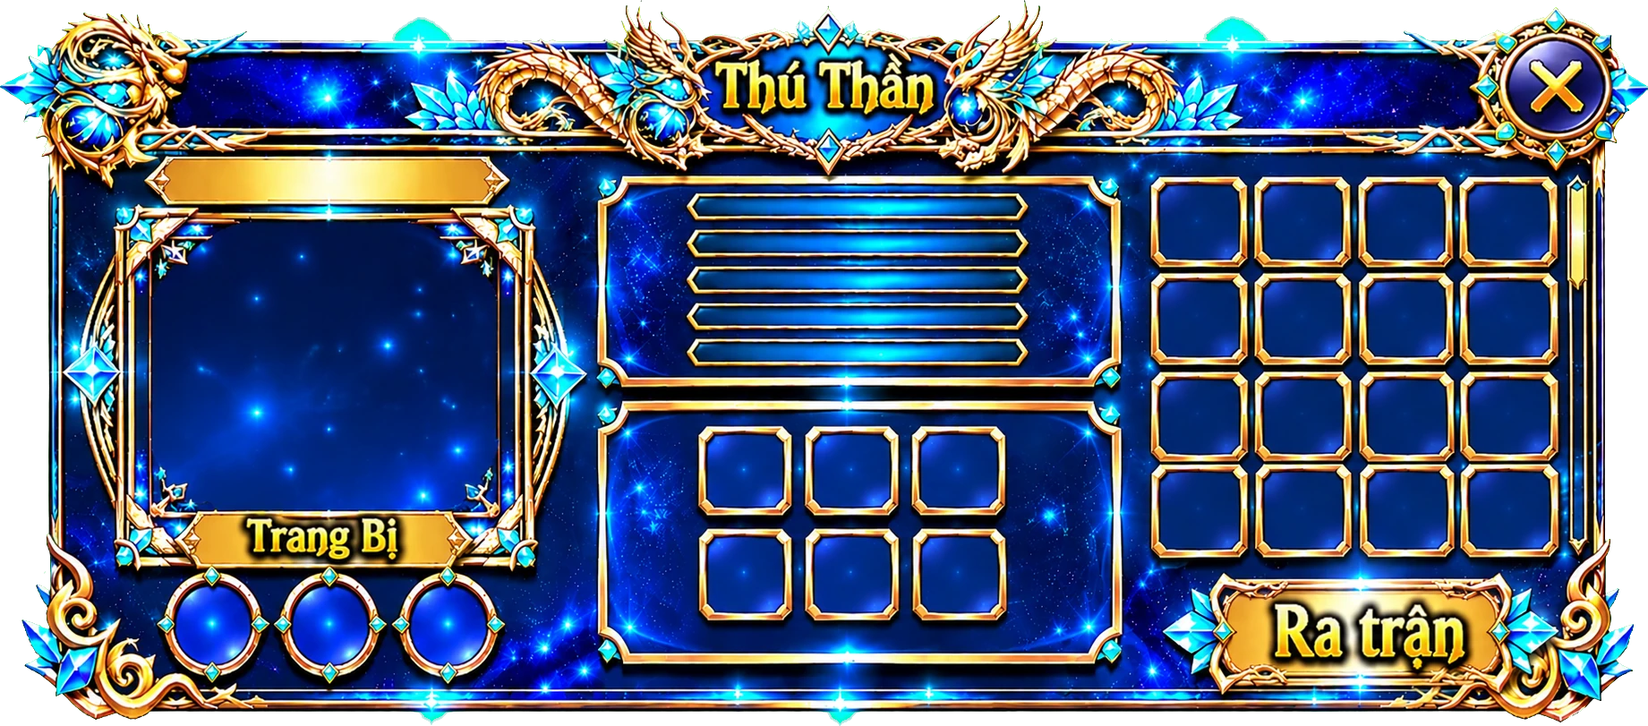
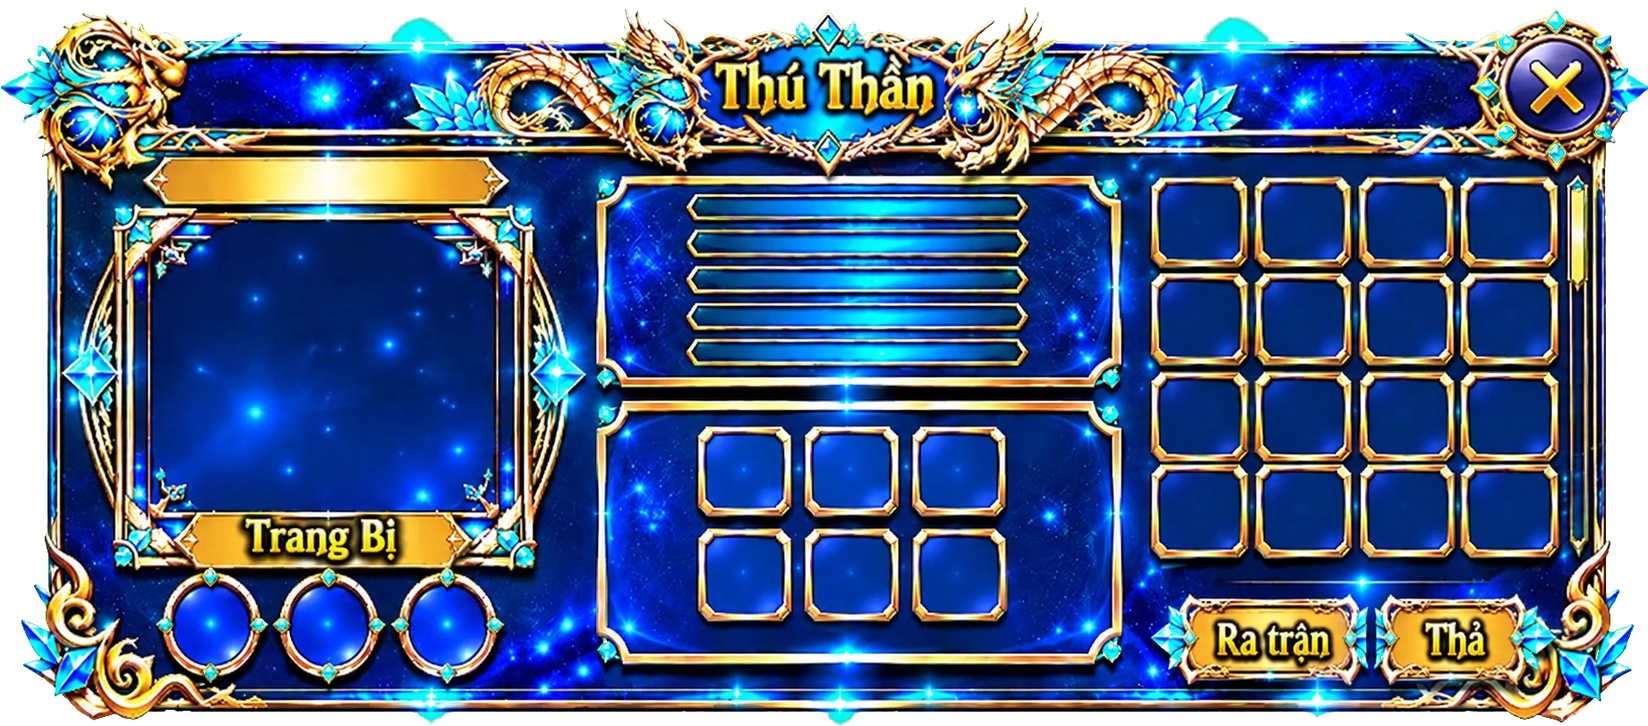
Thú Thần: khung mới có nút Thả + hiệu ứng nhấn lún/nảy cho mọi nút
- Thay khung-thu.webp bằng khung mới (thêm nút Thả, Ra trận nhỏ lại); toạ độ ô giữ nguyên
- Nút Thả: bỏ hẳn thú khỏi kho (có hỏi xác nhận, trả sách kỹ năng về Balo).
  Mờ khi chưa chọn thú hoặc thú chọn đã ra trận; chỉ sáng khi chọn thú chưa ra trận
- Thú 'canh-' (đồng bộ từ sảnh) bị thả được nhớ ở ttg_moi_thu_tha_v1 để không tự thêm lại
- Ảnh 'Đang ra trận' vẽ lại cho vừa nút Ra trận mới
- 63-nhan-nut.js: nhấn thì co, nhả thì nảy lên rồi lắng (cho mọi nút, kể cả nút vẽ sẵn trong ảnh khung)
- Bỏ :active{transform} cũ ở .nv và .btx để không bị co đôi

Claude-Session: https://claude.ai/code/session_01WtY8uwoUFqPTLnQR7GBr6f

diff --git a/game-moi/54-thu-than.js b/game-moi/54-thu-than.js
@@ -1,8 +1,10 @@
 /* 54-thu-than.js - Nút "Thú Thần" + panel Thú Thần (chứa và trang bị thú đã bắt).
    Cần 52-nut-vuong.js (TTGNV) nạp trước; nạp SAU 53-balo.js (để đóng Balo khi mở panel này) và sau 51-thu-moi.js (lấy ảnh thú).
-   Ảnh khung: game-moi/khung-thu.webp (1841x811, khung xanh-vàng mới: chữ THÚ THẦN, nút X, chữ TRANG BỊ và RA TRẬN đã VẼ SẴN trong ảnh). Hiển thị tối đa đúng cỡ gốc (1 pixel ảnh = 1 pixel máy) để không bị mờ; đóng bằng nút X / bấm ngoài / Esc.
+   Ảnh khung: game-moi/khung-thu.webp (1841x811, khung xanh-vàng: chữ THÚ THẦN, nút X, chữ TRANG BỊ, RA TRẬN và THẢ đã VẼ SẴN trong ảnh; khung mới 21/11/2026 thêm nút THẢ). Hiển thị tối đa đúng cỡ gốc (1 pixel ảnh = 1 pixel máy) để không bị mờ; đóng bằng nút X / bấm ngoài / Esc.
    MỌI TỌA ĐỘ bên dưới tính theo PIXEL ẢNH ĐÃ CẮT 1841x811 (BW x BH). Cỡ chữ/độ dày trong CSS ({n}) vẫn tính theo thang cũ 2200 (UB) nên không phải chỉnh lại; --u = clientWidth/UB.
    TIẾN ĐỘ: BƯỚC 1 (nút + icon) xong. BƯỚC 2 (khung + đóng) xong. BƯỚC 3 (bố cục + chọn thú + ra trận) xong.
+   NÚT THẢ: bỏ hẳn thú đang chọn khỏi kho (hỏi xác nhận, sách kỹ năng đang gắn trả về Balo). Nút MỜ khi chưa chọn thú hoặc thú đang chọn đã RA TRẬN; chỉ SÁNG khi chọn thú CHƯA ra trận. Thú 'canh-' (đồng bộ từ sảnh) bị thả thì ghi nhớ ở khóa ttg_moi_thu_tha_v1 để dongBo() không tự thêm lại.
+   HIỆU ỨNG NHẤN: do 63-nhan-nut.js lo cho mọi nút (nút vẽ sẵn trong ảnh khung tự được cắt mảnh ảnh để co/nảy). Đừng thêm :active{transform} vào nút nữa kẻo co đôi.
    CHƯA LÀM: bậc thú SS..D (chỉ chừa trường bac), buff/debuff/kỹ năng có sẵn (3 ô tròn), gắn/gỡ sách kỹ năng (6 ô "+"), bảng nổi.
    QUY TẮC: mở Thú Thần thì đóng Balo, mở Balo thì đóng Thú Thần (53-balo.js gọi TTGTHU.close()).
    DỮ LIỆU: danh sách thú {uid, id (loài, khớp THU_MOI.byId), ten, bac (tùy chọn: SS/S/A/B/C/D), tien (tiến hóa 1-3 = ảnh -b1/-b2/-b3, mặc định 1), chiso:{hp,tc,pt,td,mm}}
@@ -14,8 +16,8 @@
 (function(){
 'use strict';
 if(!window.TTGNV)return;
-var BW=1841,BH=811,UB=2200,IMG='game-moi/khung-thu.webp?v=6',OV_GOV='game-moi/nut-dang-ra-tran.webp?v=1';   /* ảnh khung gốc 1841x811; UB = thang đơn vị cũ cho cỡ chữ/độ dày ({n}) */
-var KEY='ttg_moi_thu_v1',KRT='ttg_moi_thu_ratran_v1';
+var BW=1841,BH=811,UB=2200,IMG='game-moi/khung-thu.webp?v=7',OV_GOV='game-moi/nut-dang-ra-tran.webp?v=2';   /* ảnh khung gốc 1841x811; UB = thang đơn vị cũ cho cỡ chữ/độ dày ({n}) */
+var KEY='ttg_moi_thu_v1',KRT='ttg_moi_thu_ratran_v1',KTHA='ttg_moi_thu_tha_v1';
 var demo=/[?&]thu=demo/.test(location.search);
 var isOpen=false,openAt=0,root=null,fr=null,E={};
 
@@ -32,7 +34,9 @@ var ANH_THU=360;    /* cỡ ảnh thú lớn bên trái (px ảnh khung). Ảnh 
 var BAR_Y=216,BAR_DY=40.8,BAR_X=772,BAR_W=374,BAR_H=27;             /* 5 thanh chỉ số */
 var GR_X=[1288,1405,1520,1634],GR_Y=[201,310,420,523],GR_W=105,GR_H=96;  /* lưới thú 4 cột x 4 hàng */
 var SK_X=[782,902,1021],SK_Y=[477,592],SK_S=100;                    /* 6 ô kỹ năng (3 cột x 2 hàng) */
-var RAIL={x:1754,y:199,w:21,h:422};                                  /* rãnh cuộn bên phải lưới */
+var RAIL={x:1754,y:199,w:21,h:422};
+var GO={x:1319,y:668,w:206,h:92},THA={x:1542,y:668,w:162,h:92};      /* 2 nút dưới-phải: RA TRẬN và THẢ (vùng tấm vàng vẽ sẵn). Lớp mờ/sáng nới thêm DIM_PAD px mỗi bên */
+var GO_OV={x:1286,y:664,w:250,h:100},DIM_PAD=5;                   /* ảnh 'Đang ra trận' phủ lên RA TRẬN */                                  /* rãnh cuộn bên phải lưới */
 /* ----- KỸ NĂNG / SÁCH (5a) ----- */
 var NSK=6;                  /* số ô gắn kỹ năng */
 var NOI_IMG='';             /* ẢNH KHUNG BẢNG NỔI (nền xanh đã tách, ô giữa trong suốt): khi có file thì điền vd 'game-moi/khung-noi.webp'. Để trống = dùng khung vẽ bằng CSS tạm. */
@@ -51,7 +55,8 @@ if(window.TTGBALO&&TTGBALO.reg)TTGBALO.reg(SACH);   /* đăng ký vào Balo (sá
 if(demo&&window.TTGBALO)Object.keys(SACH).forEach(function(k,i){TTGBALO.add(k,i%3+1);});   /* ?thu=demo: tặng sách mẫu (Balo demo, không lưu) */
 
 /* ===== DỮ LIỆU ===== */
-var thus=[],rt=null,sel=null,page=0,row0=0;
+var thus=[],rt=null,sel=null,page=0,row0=0,thaList=[];
+try{var tl=JSON.parse(localStorage.getItem(KTHA)||'[]');if(Array.isArray(tl))thaList=tl;}catch(e){}
 function uid(){return 't'+Date.now().toString(36)+Math.random().toString(36).slice(2,7);}
 function demoChiso(k){var c={hp:300+k*37,tc:40+k*7,pt:30+k*5,td:20+(k*11)%60,mm:5+(k*3)%30},n=0;
   PAGES.slice(1).forEach(function(p){p.ds.forEach(function(d){c[d[0]]=((k*7+(n++)*13)%240)/10;});});return c;}   /* chỉ số phụ mẫu 0~24% */
@@ -85,7 +90,6 @@ var css=[
 '.tt-ph{display:flex;align-items:center;justify-content:center;overflow:hidden}',
 '.tt-ph img{width:{'+ANH_THU+'};height:{'+ANH_THU+'};object-fit:contain;filter:drop-shadow(0 {6} {10} rgba(0,0,0,.55));-webkit-user-drag:none;user-select:none}',
 '.tt-eq{padding:0;border:0;border-radius:{26};background:transparent;cursor:pointer}',   /* chữ TRANG BỊ đã vẽ sẵn trong khung: nút chỉ là vùng bấm trong suốt */
-'.tt-eq:active{background:rgba(255,224,102,.18)}',
 '.tt-emp{text-align:center;font-size:{26};line-height:1.45;color:#7c83b8;padding:0 {20}}',
 /* GIỮA TRÊN: chỉ số */
 '.tt-cap{display:flex;align-items:center;justify-content:center;font-family:var(--fh);font-weight:800;font-size:{21};letter-spacing:{1};color:#bfeee8;text-shadow:0 {2} 0 #000}',
@@ -95,7 +99,6 @@ var css=[
 '.tt-mid{display:flex;align-items:center;justify-content:center;text-align:center;font-size:{24};color:#7c83b8}',
 '.tt-pg{display:flex;align-items:center;justify-content:center;padding:0;border-radius:{10};border:{3} solid #c9992f;background:#1d1d5a;color:#ffe9a0;font-size:{36};line-height:1;cursor:pointer}',
 '.tt-pg:disabled{opacity:.3;cursor:default}',
-'.tt-pg:active:not(:disabled){transform:scale(.92)}',
 /* GIỮA DƯỚI: 6 ô kỹ năng */
 '.tt-sk{display:flex;align-items:center;justify-content:center;padding:0;border:0;border-radius:{10};background:transparent;color:#ffd86b;font-size:{78};font-weight:300;line-height:1;text-shadow:0 0 {12} rgba(255,200,80,.6);cursor:pointer}',
 '.tt-sk{position:absolute}',
@@ -115,9 +118,15 @@ var css=[
 '.tt-th{position:absolute;left:{2};right:{2};border-radius:{7};background:linear-gradient(90deg,#c9992f,#ffe58a,#c9992f);box-shadow:0 0 {6} rgba(255,224,102,.5)}',
 /* NÚT RA TRẬN */
 '.tt-go{padding:0;border:0;border-radius:{18};background:transparent;cursor:pointer}',   /* chữ RA TRẬN đã vẽ sẵn trong khung: nút chỉ là vùng bấm trong suốt */
-'.tt-go:active:not(:disabled){background:rgba(255,255,255,.18)}',
-'.tt-go:disabled{cursor:default}',
-'.tt-go.off{background:rgba(3,4,18,.5)}',   /* chưa chọn thú: làm tối tấm RA TRẬN */
+'.tt-tha{padding:0;border:0;border-radius:{18};background:transparent;cursor:pointer}',   /* chữ THẢ vẽ sẵn trong khung: nút chỉ là vùng bấm trong suốt */
+'.tt-go.off,.tt-tha.off{cursor:default}',
+/* lớp MỜ / SÁNG: cắt đúng mảnh ảnh khung dưới nút rồi chỉnh độ sáng, viền mờ dần để không lộ hình chữ nhật */
+'.tt-dim,.tt-lit{pointer-events:none;background-repeat:no-repeat;opacity:0;transition:opacity .22s ease;-webkit-mask-image:linear-gradient(90deg,transparent,#000 7%,#000 93%,transparent),linear-gradient(180deg,transparent,#000 9%,#000 91%,transparent);-webkit-mask-composite:source-in;mask-image:linear-gradient(90deg,transparent,#000 7%,#000 93%,transparent),linear-gradient(180deg,transparent,#000 9%,#000 91%,transparent);mask-composite:intersect}',
+'.tt-dim{filter:brightness(.4) saturate(.35)}',
+'.tt-dim.on{opacity:.93}',
+'.tt-lit{filter:brightness(1.7) saturate(1.25)}',
+'.tt-lit.on{opacity:.4;animation:ttLit 1.7s ease-in-out infinite}',
+'@keyframes ttLit{0%,100%{opacity:.08}50%{opacity:.42}}',
 '.tt-gov{display:none;pointer-events:none;-webkit-user-drag:none;user-select:none}',   /* ảnh nút ĐANG RA TRẬN phủ lên chữ RA TRẬN vẽ sẵn */
 /* ô kỹ năng đã gắn + bảng danh sách sách + bảng nổi */
 '.tt-sk .ic{display:flex;align-items:center;justify-content:center;font-size:{62};font-weight:400;line-height:1;text-shadow:none}',
@@ -146,7 +155,7 @@ var css=[
 '.tt-pb button{min-width:{150};height:{58};padding:0 {18};border-radius:{10};border:{2} solid #c9992f;background:#1d1d5a;color:#ffe9a0;font-family:var(--fh);font-weight:800;font-size:{28};cursor:pointer}',
 '.tt-pb button.p{background:linear-gradient(180deg,#ffe58a,#c58a1e);color:#3b2406}',
 '.tt-pb button.d{background:#6b1f2e;border-color:#e0707e;color:#ffd9dd}',
-'.tt-pb button:active{transform:scale(.95)}'
+'.tt-pb button.p:active{filter:brightness(1.08)}'
 ].join('\n').replace(/\{(\d+(?:\.\d+)?)\}/g,'calc(var(--u)*$1)');
 var st=document.createElement('style');st.textContent=css;document.head.appendChild(st);
 
@@ -162,6 +171,15 @@ function unit(){if(!fr)return;var d=window.devicePixelRatio||1;fr.style.maxWidth
 var tt=0,lastDrag=0;
 function toast(t){E.ts.textContent=t;E.ts.style.display='flex';clearTimeout(tt);tt=setTimeout(function(){E.ts.style.display='none';},1500);}
 
+/* cắt mảnh ảnh khung theo box {x,y,w,h} (px ảnh), nới DIM_PAD mỗi bên, làm lớp phủ cùng chỗ (dùng cho mờ/sáng nút vẽ sẵn) */
+function bake(cls,b){
+  var x=Math.max(0,b.x-DIM_PAD),y=Math.max(0,b.y-DIM_PAD),w=Math.min(BW-x,b.w+DIM_PAD*2),h=Math.min(BH-y,b.h+DIM_PAD*2);
+  var c=mk('div',cls,x,y,w,h),s=c.style;
+  s.backgroundImage='url('+IMG+')';
+  s.backgroundSize=(BW/w*100)+'% '+(BH/h*100)+'%';
+  s.backgroundPosition=(BW>w?x/(BW-w)*100:0)+'% '+(BH>h?y/(BH-h)*100:0)+'%';
+  return c;
+}
 function build(){
   var i,j;
   root=document.createElement('div');root.className='tt';
@@ -204,9 +222,18 @@ function build(){
   E.th=document.createElement('div');E.th.className='tt-th';E.rail.appendChild(E.th);
   gridScroll();
 
-  /* --- NÚT RA TRẬN: tấm vàng dưới-phải đã vẽ sẵn chữ "Ra trận" (x1372-1672,y662-752). E.gov = tấm phủ "Đang ra trận" khi thú đang ra trận --- */
-  E.gov=mk('img','tt-gov',1346,634,354,142);E.gov.src=OV_GOV;E.gov.alt='';E.gov.draggable=false;   /* ảnh nút ĐANG RA TRẬN (cắt từ khung mới) đè lên nút RA TRẬN, giống ảnh MỞ KHÓA ở Balo */
-  E.go=mk('button','tt-go',1372,662,300,90);E.go.setAttribute('aria-label','Ra trận');E.go.type='button';E.go.addEventListener('click',function(){if(sel&&sel!==rt){rt=sel;save();render();}});
+  /* --- 2 NÚT DƯỚI-PHẢI: RA TRẬN và THẢ (tấm vàng đã vẽ sẵn chữ trong khung). Mỗi nút gồm: lớp MỜ (.tt-dim) + lớp SÁNG (.tt-lit, chỉ THẢ) + ảnh 'Đang ra trận' (chỉ RA TRẬN) + nút bấm trong suốt.
+     Lớp dim/lit dựng TRƯỚC nút bấm để nút luôn nằm trên cùng. --- */
+  E.goDim=bake('tt-dim',GO);E.thaDim=bake('tt-dim',THA);E.thaLit=bake('tt-lit',THA);
+  E.gov=mk('img','tt-gov',GO_OV.x,GO_OV.y,GO_OV.w,GO_OV.h);E.gov.src=OV_GOV;E.gov.alt='';E.gov.draggable=false;   /* ảnh nút ĐANG RA TRẬN đè lên nút RA TRẬN, giống ảnh MỞ KHÓA ở Balo */
+  E.go=mk('button','tt-go',GO.x,GO.y,GO.w,GO.h);E.go.setAttribute('aria-label','Ra trận');E.go.type='button';
+  E.go.addEventListener('click',function(){if(sel&&sel!==rt){rt=sel;save();render();}});
+  E.tha=mk('button','tt-tha',THA.x,THA.y,THA.w,THA.h);E.tha.setAttribute('aria-label','Thả');E.tha.type='button';
+  E.tha.addEventListener('click',function(){
+    var t=byUid(sel);if(!t)return;
+    if(t.uid===rt){toast('Thú đang ra trận, không thể thả');return;}
+    moTha(t);
+  });
 
   buildPop();
   document.body.appendChild(root);
@@ -279,9 +306,14 @@ function renderLeft(){
   else{E.nm.textContent='Chưa Có Thú';E.ph.innerHTML='<div class="tt-emp">Chưa có thú nào<br>Bắt thú để cất vào đây</div>';}
 }
 function renderGo(){
-  var on=!!sel&&sel===rt;
+  var on=!!sel&&sel===rt,t=!!byUid(sel);
   E.gov.style.display=on?'block':'none';   /* chữ RA TRẬN vẽ sẵn không đổi được: đang ra trận thì phủ tấm "Đang ra trận" lên */
-  E.go.disabled=!sel||on;E.go.classList.toggle('off',!sel);
+  E.go.disabled=!sel||on;
+  E.goDim.classList.toggle('on',!sel);   /* chưa chọn thú: làm mờ tấm RA TRẬN */
+  /* THẢ: chỉ SÁNG khi chọn thú CHƯA ra trận. Mờ khi không chọn gì HOẶC thú chọn đã ra trận. (aria-disabled thay vì disabled để bấm vào còn báo lý do) */
+  var can=t&&sel!==rt;
+  E.tha.setAttribute('aria-disabled',can?'false':'true');E.tha.classList.toggle('off',!can);
+  E.thaDim.classList.toggle('on',!can);E.thaLit.classList.toggle('on',!!can);
 }
 function render(){if(!root)return;renderLeft();renderStats();renderGrid();renderGo();renderSkills();}
 
@@ -351,6 +383,27 @@ function go(k){
   if(window.TTGBALO)TTGBALO.add(id,1);kn[k]=null;save();hidePop();renderSkills();toast('Đã gỡ, sách về Balo');
 }
 
+/* ===== THẢ THÚ: bỏ hẳn khỏi kho. Hỏi xác nhận (dùng bảng nổi E.in). Thú đang ra trận KHÔNG thả được. ===== */
+function moTha(t){
+  var a=anhThu(t);
+  E.in.innerHTML='<div class="tt-ii"><span class="i">'+(a?'<img src="'+esc(a)+'" alt="">':'?')+'</span><div class="n">Thả '+esc(tenThu(t))+'?</div><div class="d">Thú sẽ rời khỏi kho và không lấy lại được. Sách kỹ năng đang gắn (nếu có) được trả về Balo.</div></div>'
+   +'<div class="tt-pb"><button type="button" class="d">Thả</button><button type="button">Hủy</button></div>';
+  var bs=E.in.querySelectorAll('button');
+  bs[0].addEventListener('click',function(){tha(t.uid);});
+  bs[1].addEventListener('click',function(){hidePop();});
+  E.ls.style.display='none';E.ov.style.display='block';E.in.style.display='flex';
+}
+function tha(u){
+  var t=byUid(u);if(!t||t.uid===rt)return;
+  var idx=thus.indexOf(t),kn=Array.isArray(t.kn)?t.kn:[],ten=tenThu(t);
+  if(window.TTGBALO)kn.forEach(function(id){if(id)TTGBALO.add(id,1);});   /* trả sách kỹ năng về Balo */
+  thus.splice(idx,1);
+  if(u.indexOf('canh-')===0&&thaList.indexOf(u)<0){thaList.push(u);if(!demo){try{localStorage.setItem(KTHA,JSON.stringify(thaList));}catch(e){}}}   /* thú đồng bộ từ sảnh: nhớ đã thả để không tự thêm lại */
+  save();
+  sel=thus[idx]?thus[idx].uid:(thus[idx-1]?thus[idx-1].uid:null);
+  hidePop();render();toast('Đã thả '+ten);
+}
+
 /* ĐỒNG BỘ THÚ Ở SẢNH: game-moi/index.html lưu thú đang đứng ở sảnh vào khóa ttg_moi_v1 {thu:loài, bm:bậc 1-3}.
    Chưa có cơ chế bắt thú thật, nên mỗi loài thú từng dùng ở sảnh được coi là ĐÃ CÓ và tự vào danh sách (mỗi loài 1 con, uid 'canh-<loài>').
    Con 'canh-' luôn cập nhật tiến hóa (tien) theo bậc bm hiện tại. Sau này có bắt thú thì bỏ hàm này (hoặc chỉ giữ để nhập thú cũ). */
@@ -360,6 +413,7 @@ function dongBo(){
     var sv=JSON.parse(localStorage.getItem('ttg_moi_v1')||'{}'),id=sv&&sv.thu;
     if(!id||!THU_MOI.byId[id])return;
     var tien=Math.max(1,Math.min(3,(sv.bm|0)||1)),u='canh-'+id,t=byUid(u),i,co=false;
+    if(thaList.indexOf(u)>=0)return;   /* đã thả con này rồi */
     for(i=0;i<thus.length;i++)if(thus[i].id===id){co=true;break;}
     if(t){if(t.tien!==tien){t.tien=tien;save();}}
     else if(!co){thus.push({uid:u,id:id,tien:tien,chiso:{}});save();}
@@ -402,5 +456,5 @@ function expInfo(){var t=rt&&byUid(rt);if(!t||!window.TTGCS)return null;var lv=M
 function addExp(n){var t=rt&&byUid(rt);n=Math.max(0,Math.floor(n)||0);if(!t||!window.TTGCS)return null;var lv0=Math.max(1,Math.floor(t.lv||1)),lv=lv0,e=Math.max(0,Math.floor(t.exp||0))+n;
   while(lv<capMax()&&e>=TTGCS.expCan(lv)){e-=TTGCS.expCan(lv);lv++;}
   if(lv>=capMax())e=0;t.lv=lv;t.exp=e;save();return {gain:n,lv0:lv0,lv1:lv,exp:e,need:lv>=capMax()?0:TTGCS.expCan(lv)};}
-window.TTGTHU={open:open,close:close,isOpen:function(){return isOpen;},add:add,list:list,getRaTran:getRaTran,anh:anhThu,expInfo:expInfo,addExp:addExp};   /* anh(thu) = đường dẫn ảnh thú (dùng cho khung Trang Bị) */
+window.TTGTHU={tha:tha,open:open,close:close,isOpen:function(){return isOpen;},add:add,list:list,getRaTran:getRaTran,anh:anhThu,expInfo:expInfo,addExp:addExp};   /* anh(thu) = đường dẫn ảnh thú (dùng cho khung Trang Bị) */
 })();

diff --git a/game-moi/63-nhan-nut.js b/game-moi/63-nhan-nut.js
@@ -1,0 +1,112 @@
+/* 63-nhan-nut.js - HIỆU ỨNG NHẤN cho MỌI nút trong game-moi (không còn cứng đơ).
+   Nhấn xuống: nút co lại nhanh. Nhả ra: nảy lên quá cỡ một chút rồi lắng về 1 (như lò xo).
+   Dùng thuộc tính CSS `scale` (độc lập với `transform`) + Web Animations API => KHÔNG đè lên transform/transition của từng nút.
+   Chỉ nạp 1 lần, bắt sự kiện ở cấp document nên nút tạo sau (panel mở sau, danh sách vẽ lại) vẫn có hiệu ứng.
+
+   NÚT VẼ SẴN TRONG ẢNH KHUNG (Ra trận, Thả, Trang Bị, X, Khóa/Vứt ở Balo...): nút thật chỉ là vùng bấm trong suốt nên co nó chẳng thấy gì.
+   Với nút trong suốt như vậy, lúc nhấn script tự cắt đúng mảnh ảnh khung nằm dưới nút (ảnh nền của khung cha) thành 1 lớp phủ có viền mờ dần,
+   rồi co/nảy lớp đó => thấy chính hình nút bị nhấn. Muốn tự điều khiển: đặt sẵn 1 con .pbk trong nút (xem 54-thu-than.js).
+   Muốn nút nào KHÔNG có hiệu ứng: thêm thuộc tính data-nopress.
+   API: TTGPRESS.sel (chuỗi selector, có thể thêm), TTGPRESS.off = true để tắt hết. */
+(function(){
+'use strict';
+if(window.TTGPRESS)return;
+var SEL='button,[role="button"],.nv,.tt-c,.tt-pr,[data-press]';
+var ok=window.CSS&&CSS.supports&&CSS.supports('scale','.9');
+var reduce=window.matchMedia&&matchMedia('(prefers-reduced-motion: reduce)').matches;
+var API=window.TTGPRESS={sel:SEL,off:false};
+var DOWN=reduce?.97:.9,UP=reduce?1:1.06;   /* co xuống / nảy lên (hệ số) */
+var MINHOLD=70;                            /* nhấn nhanh mấy cũng giữ tối thiểu ~70ms cho kịp thấy */
+var cur={};                                /* pointerId -> {btn,t,t0,an} */
+
+var st=document.createElement('style');
+st.textContent='.pbk{position:absolute;left:0;top:0;right:0;bottom:0;pointer-events:none;opacity:0;border-radius:inherit;'+
+  'background-repeat:no-repeat;-webkit-mask-image:linear-gradient(90deg,transparent,#000 9%,#000 91%,transparent),linear-gradient(180deg,transparent,#000 9%,#000 91%,transparent);'+
+  '-webkit-mask-composite:source-in;mask-image:linear-gradient(90deg,transparent,#000 9%,#000 91%,transparent),linear-gradient(180deg,transparent,#000 9%,#000 91%,transparent);mask-composite:intersect}'+
+  '.pbk.on{opacity:1;filter:brightness(.86)}';
+document.head.appendChild(st);
+
+function disabled(b){return b.disabled||b.getAttribute('aria-disabled')==='true'||b.hasAttribute('data-nopress');}
+function hasLook(b,cs){   /* nút có hình riêng (chữ, ảnh con, nền) hay chỉ là vùng bấm trong suốt? */
+  if(b.querySelector('img,svg,canvas,i,span,b'))return true;
+  if((b.textContent||'').trim())return true;
+  if(cs.backgroundImage&&cs.backgroundImage!=='none')return true;
+  var m=/rgba?\(([^)]+)\)/.exec(cs.backgroundColor||'');
+  if(m){var p=m[1].split(',');if(p.length<4||parseFloat(p[3])>.08)return true;}
+  return false;
+}
+/* tìm khung cha có ảnh nền để cắt mảnh dưới nút */
+function frameOf(b){
+  for(var p=b.parentElement;p&&p!==document.body;p=p.parentElement){
+    var cs=getComputedStyle(p);
+    if(cs.backgroundImage&&cs.backgroundImage.indexOf('url(')===0)return {el:p,cs:cs};
+  }
+  return null;
+}
+function pbkOf(b){
+  var k=b.querySelector(':scope>.pbk');
+  if(k)return k;
+  var cs=getComputedStyle(b);
+  if(hasLook(b,cs))return null;
+  var f=frameOf(b);if(!f)return null;
+  k=document.createElement('i');k.className='pbk';k.setAttribute('data-auto','1');
+  if(cs.position==='static')b.style.position='relative';
+  b.appendChild(k);
+  return k;
+}
+/* đặt ảnh nền của lớp .pbk khớp mảnh khung nằm dưới nút (ảnh khung vẽ 100% 100% trong khung cha) */
+function fitPbk(b,k){
+  if(!k.getAttribute('data-auto'))return;
+  var f=frameOf(b);if(!f)return;
+  var fr=f.el.getBoundingClientRect(),br=b.getBoundingClientRect();
+  k.style.backgroundImage=f.cs.backgroundImage;
+  k.style.backgroundSize=fr.width+'px '+fr.height+'px';
+  k.style.backgroundPosition=(-(br.left-fr.left))+'px '+(-(br.top-fr.top))+'px';
+}
+function scaleOf(el){var v=parseFloat(getComputedStyle(el).scale);return isFinite(v)?v:1;}
+function anim(el,frames,opt){
+  try{return el.animate(frames,opt);}catch(e){return null;}
+}
+function press(b,id){
+  var k=pbkOf(b),tg=k||b,rec;
+  if(k){fitPbk(b,k);k.classList.add('on');}
+  var w=b.getBoundingClientRect().width;
+  var to=w>260?(1-(1-DOWN)*.4):(w>120?(1-(1-DOWN)*.7):DOWN);   /* nút to co ít hơn cho đỡ lố */
+  if(k)to=Math.max(to,.94);   /* lớp phủ cắt từ ảnh: co ít để không lộ viền ảnh gốc bên dưới */
+  var from=scaleOf(tg);
+  if(tg._pa)tg._pa.cancel();
+  tg.style.scale=String(from);
+  var an=anim(tg,[{scale:from},{scale:to}],{duration:90,easing:'cubic-bezier(.2,.8,.3,1)',fill:'forwards'});
+  rec={btn:b,tg:tg,k:k,t0:performance.now(),to:to};
+  tg._pa=an;cur[id]=rec;
+}
+function release(id){
+  var rec=cur[id];if(!rec)return;delete cur[id];
+  var wait=Math.max(0,MINHOLD-(performance.now()-rec.t0));
+  setTimeout(function(){
+    var tg=rec.tg,from=scaleOf(tg),k=rec.k;
+    if(tg._pa)tg._pa.cancel();
+    tg.style.scale='';
+    var up=Math.max(1,Math.min(UP,1+(1-rec.to)*.55+.02));   /* nảy vừa phải theo độ co */
+    var an=anim(tg,[{scale:from},{scale:up,offset:.42},{scale:.985,offset:.72},{scale:1}],{duration:300,easing:'cubic-bezier(.25,.9,.35,1)'});
+    tg._pa=an;
+    function done(){if(tg._pa===an){tg._pa=null;}if(k&&!cur_has(k))k.classList.remove('on');}
+    if(an)an.onfinish=an.oncancel=done;else done();
+  },wait);
+}
+function cur_has(k){for(var i in cur)if(cur[i].k===k)return true;return false;}
+
+if(ok){
+  document.addEventListener('pointerdown',function(e){
+    if(API.off||e.button>0)return;
+    var b=e.target&&e.target.closest&&e.target.closest(API.sel);
+    if(!b||disabled(b))return;
+    press(b,e.pointerId);
+  },true);
+  function up(e){release(e.pointerId);}
+  document.addEventListener('pointerup',up,true);
+  document.addEventListener('pointercancel',up,true);
+  /* kéo ngón ra khỏi nút rồi nhả: pointerup vẫn bắn ở document nên cũng được nhả. Mất focus/ẩn tab: nhả hết */
+  addEventListener('blur',function(){Object.keys(cur).forEach(release);});
+}
+})();

diff --git a/game-moi/52-nut-vuong.js b/game-moi/52-nut-vuong.js
@@ -21,7 +21,6 @@ var st=document.createElement('style');
 st.textContent=[
 '.nv{position:fixed;left:0;top:0;z-index:6;display:none;margin:0;padding:0;border:0;background:none;cursor:pointer;-webkit-tap-highlight-color:transparent;touch-action:manipulation;font-family:"Segoe UI",system-ui,-apple-system,Roboto,sans-serif;transition:transform .08s ease}',
 '.nv:focus{outline:none}',
-'.nv:active{transform:scale(.92)}',
 '.nv .nv-bg{position:absolute;left:21%;right:21%;top:21%;bottom:21%;border-radius:10%;background:radial-gradient(ellipse at 50% 42%,rgba(86,92,230,.55) 0%,rgba(40,44,140,.35) 55%,rgba(14,16,60,0) 100%)}',
 '.nv .nv-gl{position:absolute;left:14%;right:14%;top:12%;height:56%;border-radius:50%;background:radial-gradient(ellipse at center,rgba(255,226,130,.5) 0%,rgba(255,190,80,.2) 45%,rgba(255,190,80,0) 72%);animation:nvg 2.4s ease-in-out infinite;pointer-events:none}',
 '@keyframes nvg{0%,100%{opacity:.55;transform:scale(.92)}50%{opacity:1;transform:scale(1.06)}}',

diff --git a/game-moi/62-bat-thu.js b/game-moi/62-bat-thu.js
@@ -237,7 +237,6 @@ function draw(ctx,ts){
 /* ================= DOM ================= */
 var CSS=[
 '.btx{position:fixed;z-index:7;display:none;box-sizing:border-box;border:2px solid #d9a93a;border-radius:9px;background:linear-gradient(#2a5fb0,#143a78);color:#fff3c4;font:800 14px/1 "Segoe UI",system-ui,sans-serif;text-shadow:0 1px 0 #000;box-shadow:0 0 10px rgba(255,214,102,.45);touch-action:manipulation;-webkit-tap-highlight-color:transparent;cursor:pointer;padding:0;align-items:center;justify-content:center;gap:5px}',
-'.btx:active{transform:scale(.94)}',
 '.btx.bi{background:url(game-moi/nut-bat.webp) 50% 50%/contain no-repeat;border:0;border-radius:0;box-shadow:none;text-shadow:none;font-size:0;color:transparent}',
 '.btx.g{background:linear-gradient(#5b5f73,#33364a);border-color:#8a8da0;color:#ddd;box-shadow:none}',
 '.btx.chip{font-size:11px;line-height:1.15;padding:0 6px;text-align:left}',

diff --git a/game-moi/index.html b/game-moi/index.html
@@ -197,6 +197,7 @@ canvas{position:fixed;left:0;top:0;image-rendering:pixelated;image-rendering:cri
 </div>
 <script src="51-thu-moi.js"></script>
 <script src="game-moi/52-nut-vuong.js"></script>
+<script src="game-moi/63-nhan-nut.js"></script>
 <script src="game-moi/53-balo.js"></script>
 <script src="game-moi/58-bong-bat.js"></script>
 <script src="game-moi/54-thu-than.js"></script>
